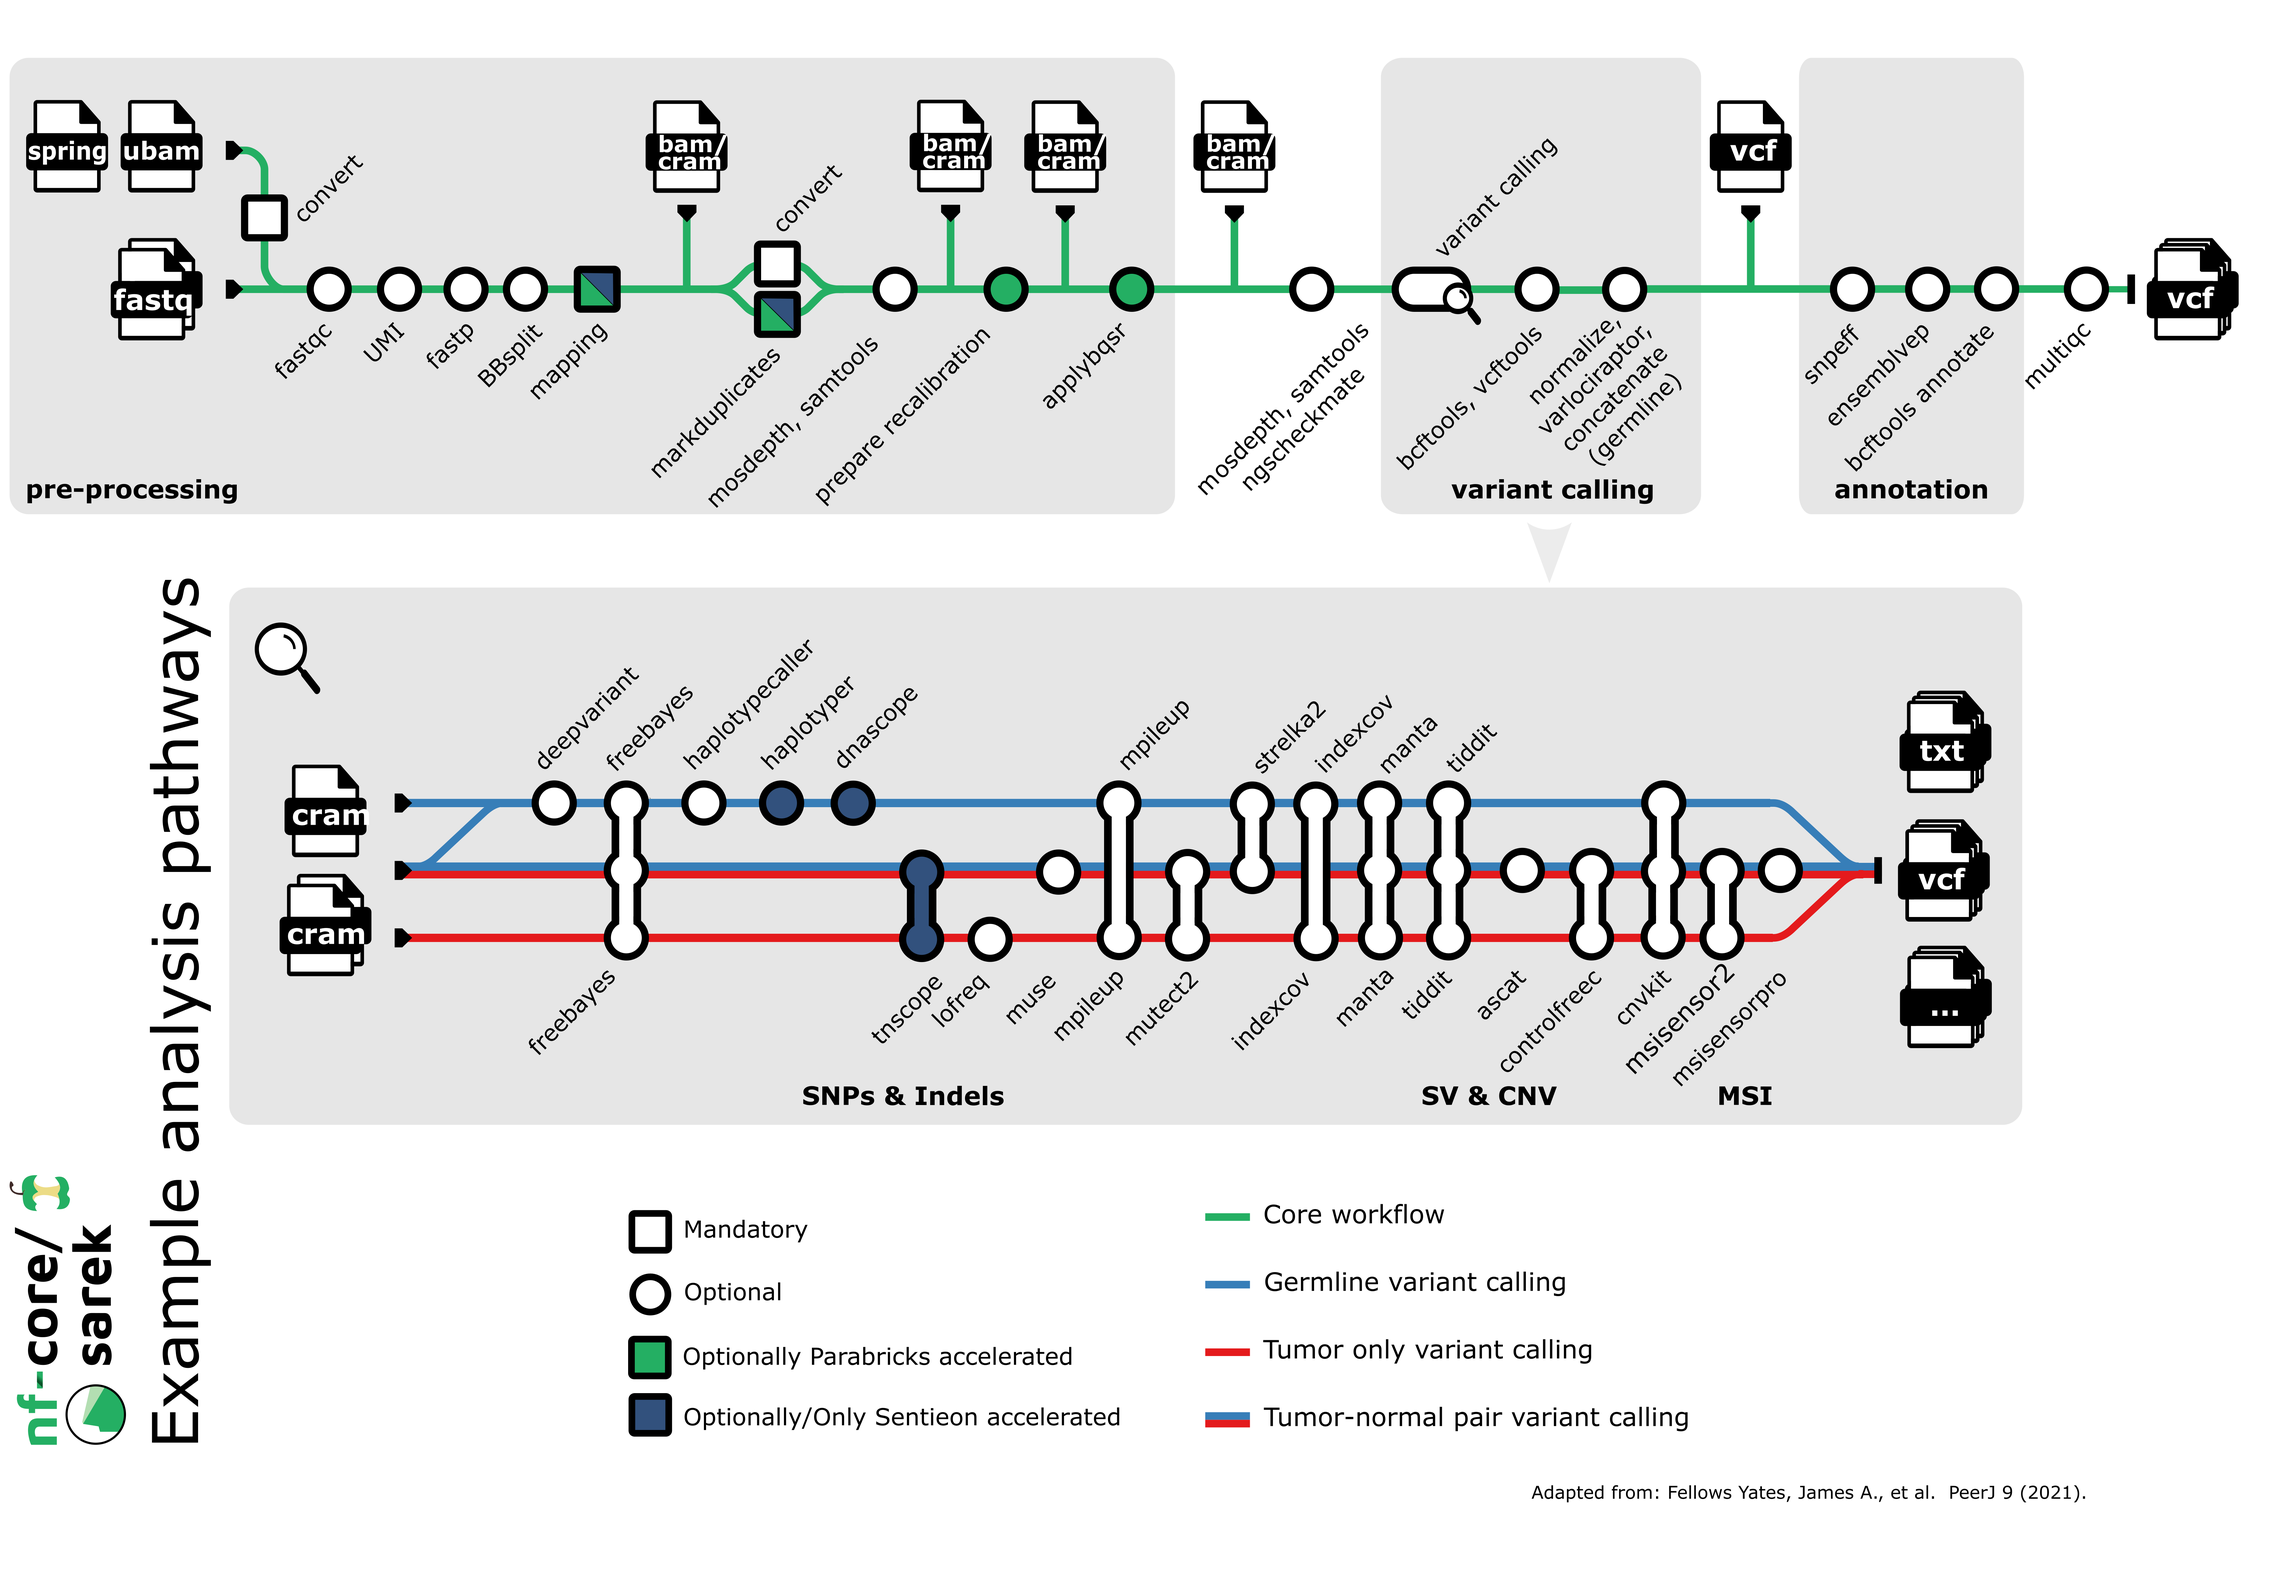
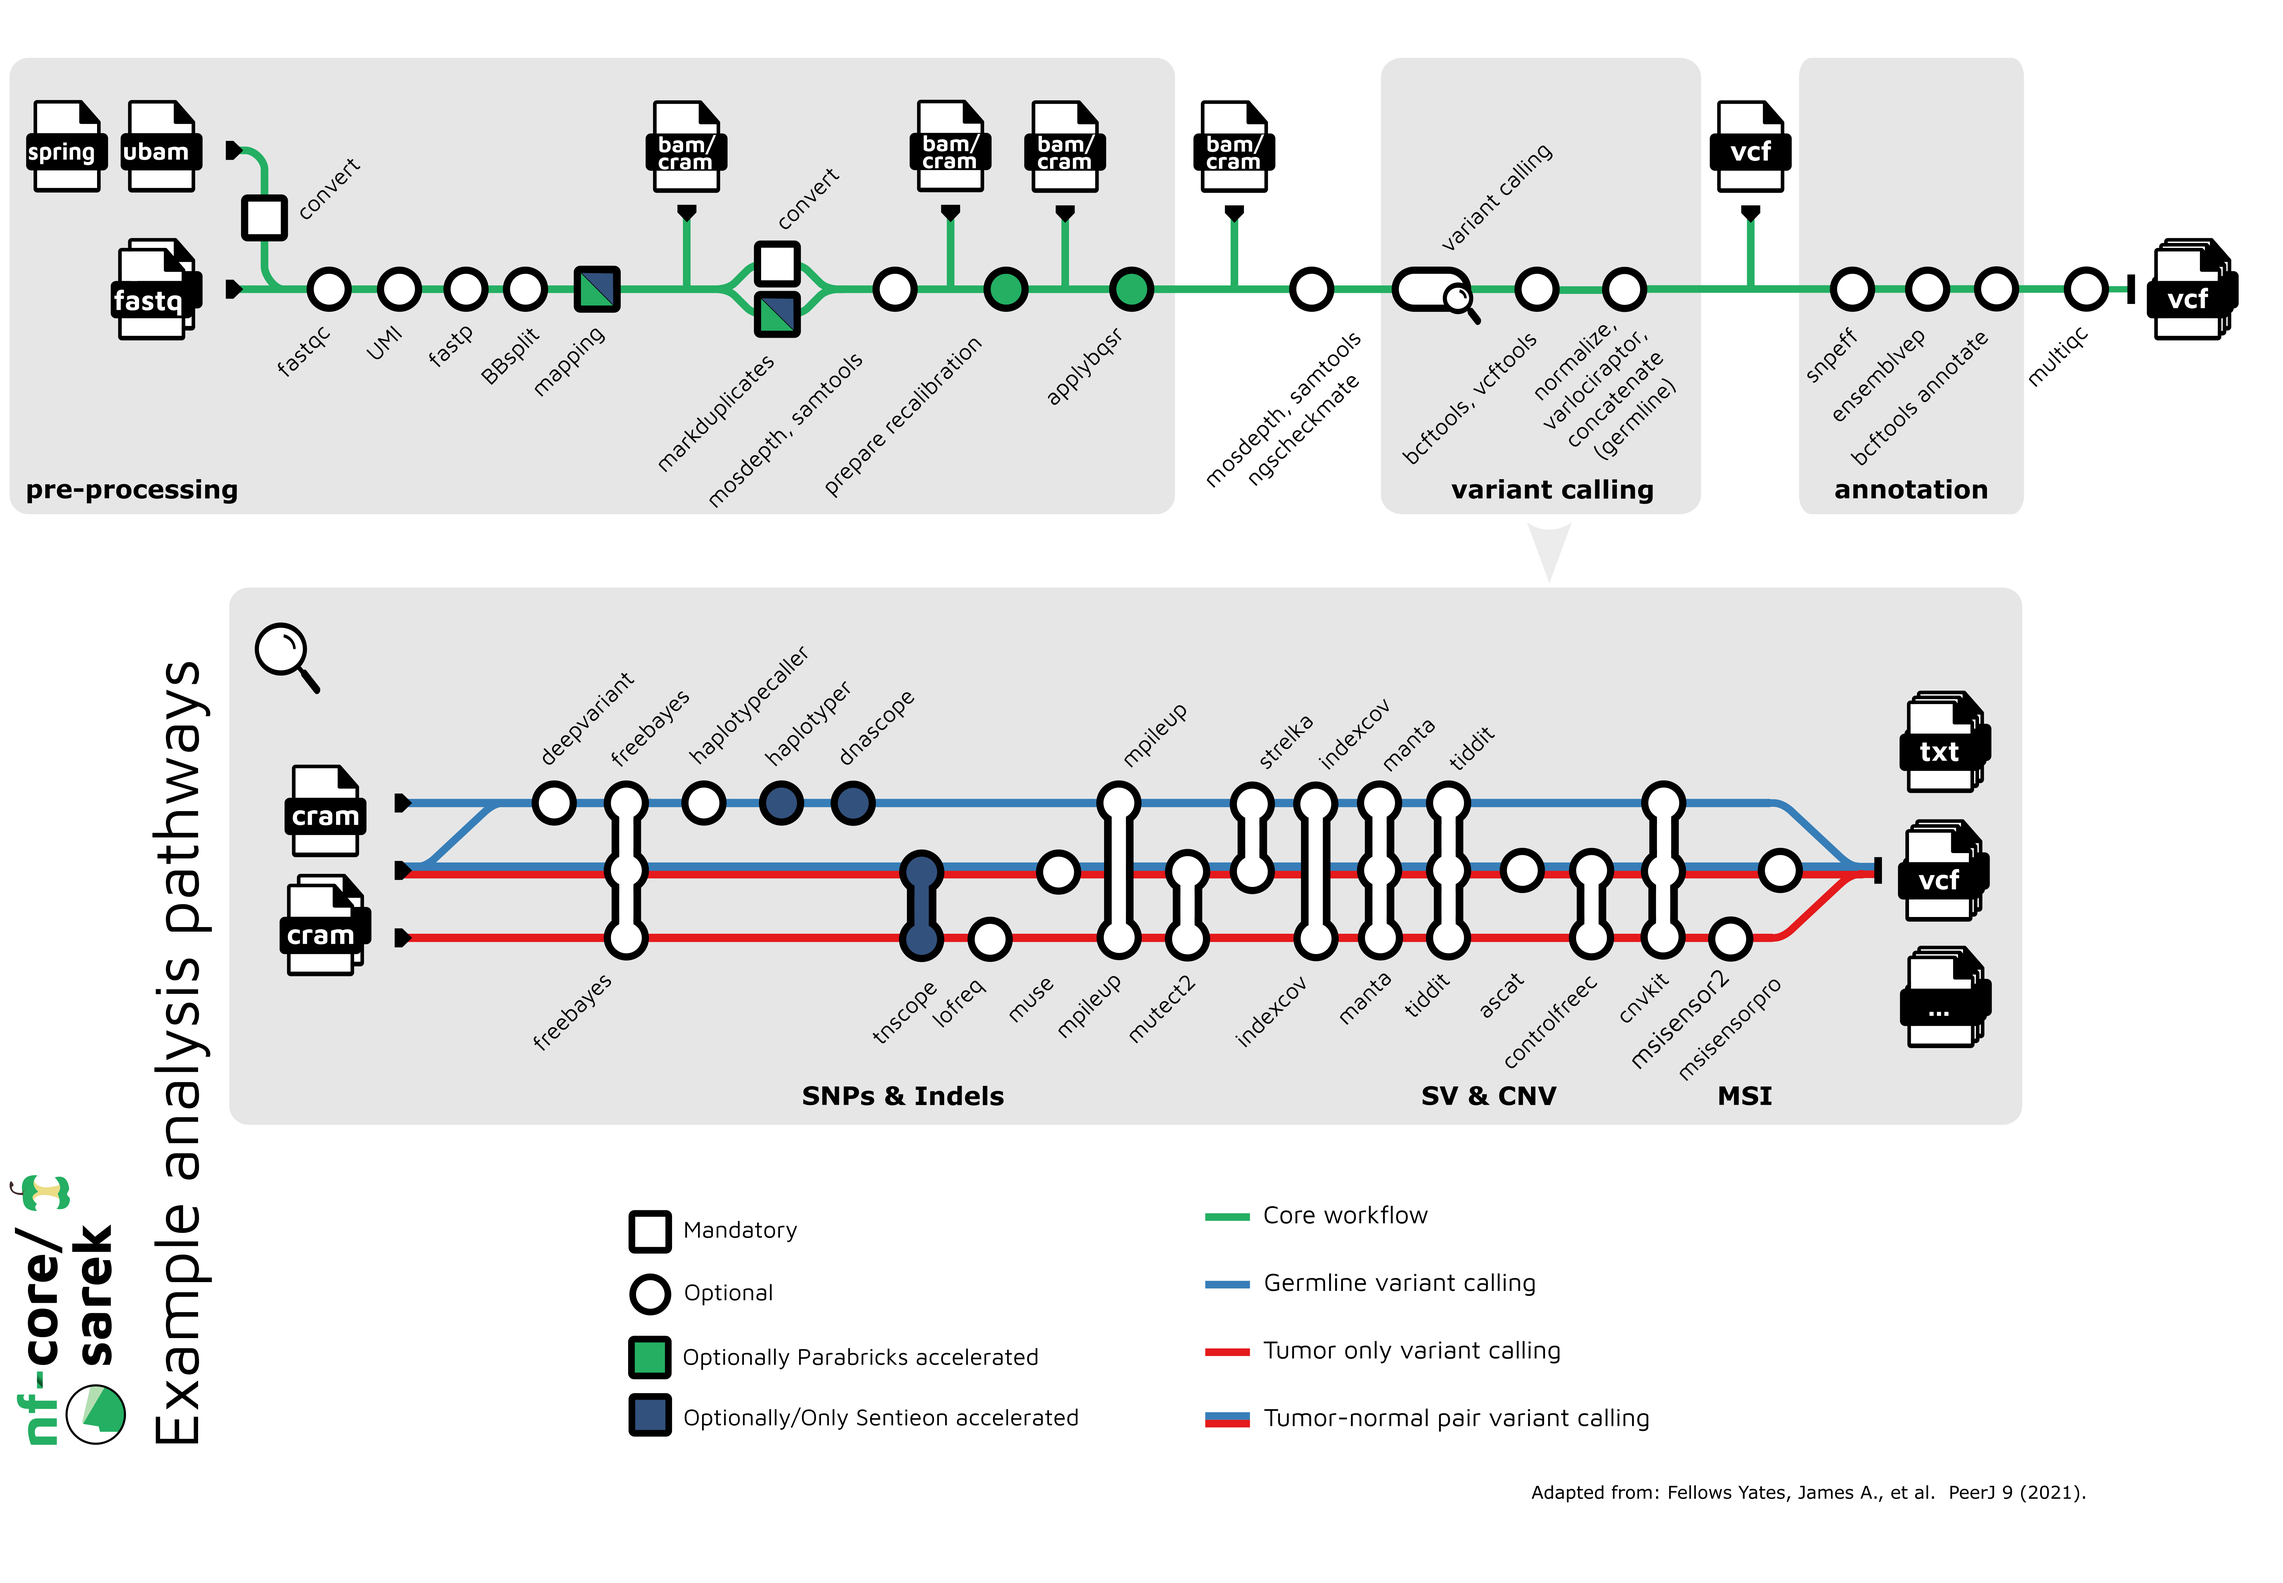
Prepare release and address comments (#2014)
<!--
# nf-core/sarek pull request

Many thanks for contributing to nf-core/sarek!

Please fill in the appropriate checklist below (delete whatever is not
relevant).
These are the most common things requested on pull requests (PRs).

Remember that PRs should be made against the dev branch, unless you're
preparing a pipeline release.

Learn more about contributing:
[CONTRIBUTING.md](https://github.com/nf-core/sarek/tree/master/.github/CONTRIBUTING.md)
-->

## PR checklist

- [ ] This comment contains a description of changes (with reason).
- [ ] If you've fixed a bug or added code that should be tested, add
tests!
- [ ] If you've added a new tool - have you followed the pipeline
conventions in the [contribution
docs](https://github.com/nf-core/sarek/tree/master/.github/CONTRIBUTING.md)
- [ ] If necessary, also make a PR on the nf-core/sarek _branch_ on the
[nf-core/test-datasets](https://github.com/nf-core/test-datasets)
repository.
- [ ] Make sure your code lints (`nf-core pipelines lint`).
- [ ] Ensure the test suite passes (`nextflow run . -profile test,docker
--outdir <OUTDIR>`).
- [ ] Check for unexpected warnings in debug mode (`nextflow run .
-profile debug,test,docker --outdir <OUTDIR>`).
- [ ] Usage Documentation in `docs/usage.md` is updated.
- [ ] Output Documentation in `docs/output.md` is updated.
- [ ] `CHANGELOG.md` is updated.
- [ ] `README.md` is updated (including new tool citations and
authors/contributors).

diff --git a/CHANGELOG.md b/CHANGELOG.md
@@ -5,7 +5,9 @@ All notable changes to this project will be documented in this file.
 The format is based on [Keep a Changelog](https://keepachangelog.com/en/1.0.0/)
 and this project adheres to [Semantic Versioning](https://semver.org/spec/v2.0.0.html).
 
-## dev
+## [3.6.0](https://github.com/nf-core/sarek/releases/tag/3.6.0) - Kvikkjokk
+
+Kvikkjokk is a village where many trails start that lead through sarek.
 
 ### Added
 
@@ -178,6 +180,7 @@ and this project adheres to [Semantic Versioning](https://semver.org/spec/v2.0.0
 - [2001](https://github.com/nf-core/sarek/pull/2001) - Remove lofreq VCF MD5sum - use summary
 - [2007](https://github.com/nf-core/sarek/pull/2007) - Sort tools in test_full configs and add msisensor2
 - [2008](https://github.com/nf-core/sarek/pull/2008), [2010](https://github.com/nf-core/sarek/pull/2010) - Skip conda tests that cannot be run due to lacking dependencies
+- [2014](https://github.com/nf-core/sarek/pull/2014) - Prepare release and address comments
 
 #### Fixed
 

diff --git a/docs/usage.md b/docs/usage.md
@@ -169,9 +169,8 @@ patient1,XX,1,relapse_sample,lane_1,test3_L001.bam
 
 #### Using GPU accelerated alignment (parabricks)
 
-:::info
-This is an experimental addition to the pipeline which is not at feature parity with the GATK implementation.
-:::
+> [!NOTE]
+> This is an experimental addition to the pipeline which is not at feature parity with the GATK implementation.
 
 To use the GPU based `parabricks/fq2bam` as an alternative to the CPU bsed GATK implementation add `--aligner parabricks --profile <docker/singularity>,gpu` to your run command. The parabricks implementation does not support the use of this pipeline with `--profile conda`.
 

diff --git a/docs/output.md b/docs/output.md
@@ -324,9 +324,8 @@ The resulting recalibrated CRAM files are delivered to the user. Recalibrated CR
 
 ### Parabricks FQ2BAM
 
-:::info
-This is an experimental addition to the pipeline which is not at feature parity with the GATK implementation.
-:::
+> [!NOTE]
+> This is an experimental addition to the pipeline which is not at feature parity with the GATK implementation.
 
 [Parabricks FQ2BAM](https://docs.nvidia.com/clara/parabricks/latest/documentation/tooldocs/man_fq2bam.html) runs as alternative to GATK preprocessing, enables by `--aligner parabricks --profile <docker/singularity>,gpu`.
 

diff --git a/README.md b/README.md
@@ -64,7 +64,7 @@ Depending on the options and samples provided, the pipeline can currently perfor
   - `MSIsensor-pro`
   - `MuSE`
   - `Sentieon Haplotyper`
-  - `Strelka2`
+  - `Strelka`
   - `TIDDIT`
 - Post-variant calling options:
   - `BCFtools concat` for germline vcfs
